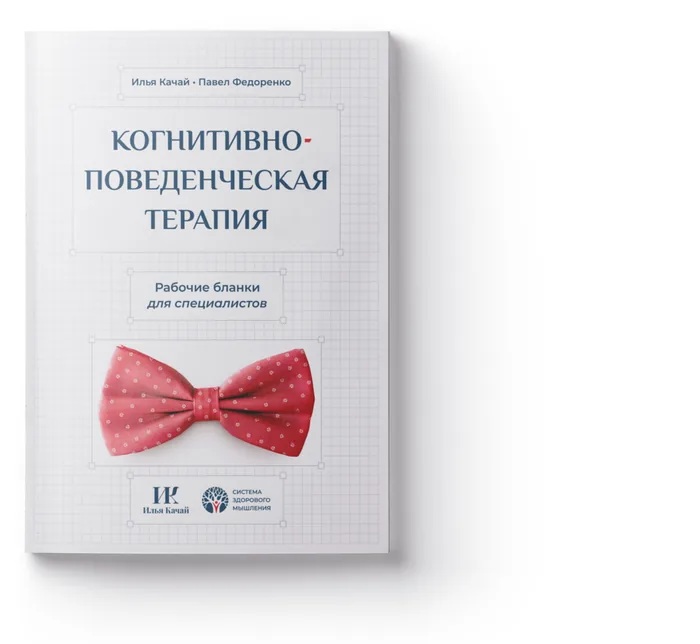
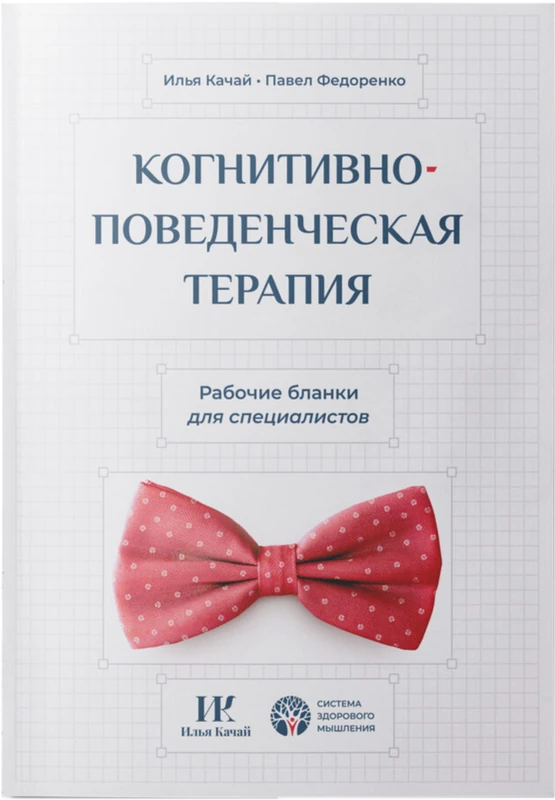
Бонусные книги на прозрачном фоне
Claude-Session: https://claude.ai/code/session_014PELJCk1FcVkyAgvCLoFrA

diff --git a/index.html b/index.html
@@ -8,7 +8,7 @@
 <link rel="preconnect" href="https://fonts.googleapis.com">
 <link rel="preconnect" href="https://fonts.gstatic.com" crossorigin>
 <link href="https://fonts.googleapis.com/css2?family=Manrope:wght@400;500;600;700;800&display=swap" rel="stylesheet">
-<link rel="stylesheet" href="style.css?v=ac741e12">
+<link rel="stylesheet" href="style.css?v=d7671909">
 <script>document.documentElement.classList.add('js')</script>
 </head>
 <body>
@@ -683,9 +683,9 @@
         </ul>
         <div class="bonus card--soft">
           <div class="bonus__books">
-            <img src="img/book-kpt.webp?v=c94bc463" alt="Книга «Когнитивно-поведенческая терапия»" loading="lazy">
-            <img src="img/book-szm.webp?v=c54fee01" alt="Книга «Система здорового мышления»" loading="lazy">
-            <img src="img/book-workbook.webp?v=4cc2adcc" alt="Рабочая тетрадь КПТ" loading="lazy">
+            <img src="img/book-kpt.webp?v=265a1e92" alt="Книга «Когнитивно-поведенческая терапия»" loading="lazy">
+            <img src="img/book-szm.webp?v=2636f3cb" alt="Книга «Система здорового мышления»" loading="lazy">
+            <img src="img/book-workbook.webp?v=33a8bce9" alt="Рабочая тетрадь КПТ" loading="lazy">
           </div>
           <div><b class="accent-b">Бонус для учеников</b><p>Неограниченный доступ к электронным версиям авторских книг, на которых выстроено обучение: «Когнитивно-поведенческая терапия», «Рабочая тетрадь КПТ» и «Система здорового мышления».</p></div>
         </div>

diff --git a/script.js b/script.js
@@ -23,12 +23,12 @@
   const vt = $('#videoTrack');
   if (vt) vt.innerHTML = VIDEOS.map(([n], i) => `
     <div class="slide">${noEmbed ? `<a class="card vcard" href="https://vimeo.com/${VIDEOS[i][1]}" target="_blank" rel="noopener">` : `<button class="card vcard" data-video="${i}">`}
-      <span class="vcard__ph"><img src="${I(`img/video-${i + 1}.webp?v=202611180600`)}" alt="${n}" loading="lazy"><span class="play"></span></span>
+      <span class="vcard__ph"><img src="${I(`img/video-${i + 1}.webp?v=202611180614`)}" alt="${n}" loading="lazy"><span class="play"></span></span>
       <span class="vcard__t"><b>${n}</b><span>${noEmbed ? 'Смотреть на Vimeo' : 'Отзыв об обучении'}</span></span>
     ${noEmbed ? '</a>' : '</button>'}</div>`).join('');
 
   /* ---------- галереи документов ---------- */
-  const range = (p, n, cap) => Array.from({ length: n }, (_, i) => ({ src: I(`img/${p}-${i + 1}.webp?v=202611180600`), cap: `${cap}, стр. ${i + 1} из ${n}` }));
+  const range = (p, n, cap) => Array.from({ length: n }, (_, i) => ({ src: I(`img/${p}-${i + 1}.webp?v=202611180614`), cap: `${cap}, стр. ${i + 1} из ${n}` }));
   const GALLERIES = {
     diploma: [
       { src: I('img/diploma-sample.webp?v=8fa4e74c'), cap: 'Образец диплома о профессиональной переподготовке' },

diff --git a/style.css b/style.css
@@ -651,3 +651,12 @@ details[open] > summary .plus::after{transform:rotate(0)}
   .lb__cap{font-size:14px;padding:0 90px 30px}
   .lb__nav{bottom:calc(18px + env(safe-area-inset-bottom,0px));width:48px;height:48px}
 }
+
+/* бонусные книги: прозрачные, одной высоты, с общей тенью */
+.bonus__books{width:236px;height:150px}
+.bonus__books img{height:136px;width:auto;max-width:none;border-radius:0;box-shadow:none;object-fit:contain;filter:drop-shadow(0 10px 12px rgba(20,10,90,.28))}
+.bonus__books img:nth-child(1){left:0}
+.bonus__books img:nth-child(2){left:66px;height:146px}
+.bonus__books img:nth-child(3){left:128px;height:128px}
+.bonus{grid-template-columns:250px 1fr}
+@media (max-width:640px){.bonus{grid-template-columns:1fr}.bonus__books{margin:0 auto}}
